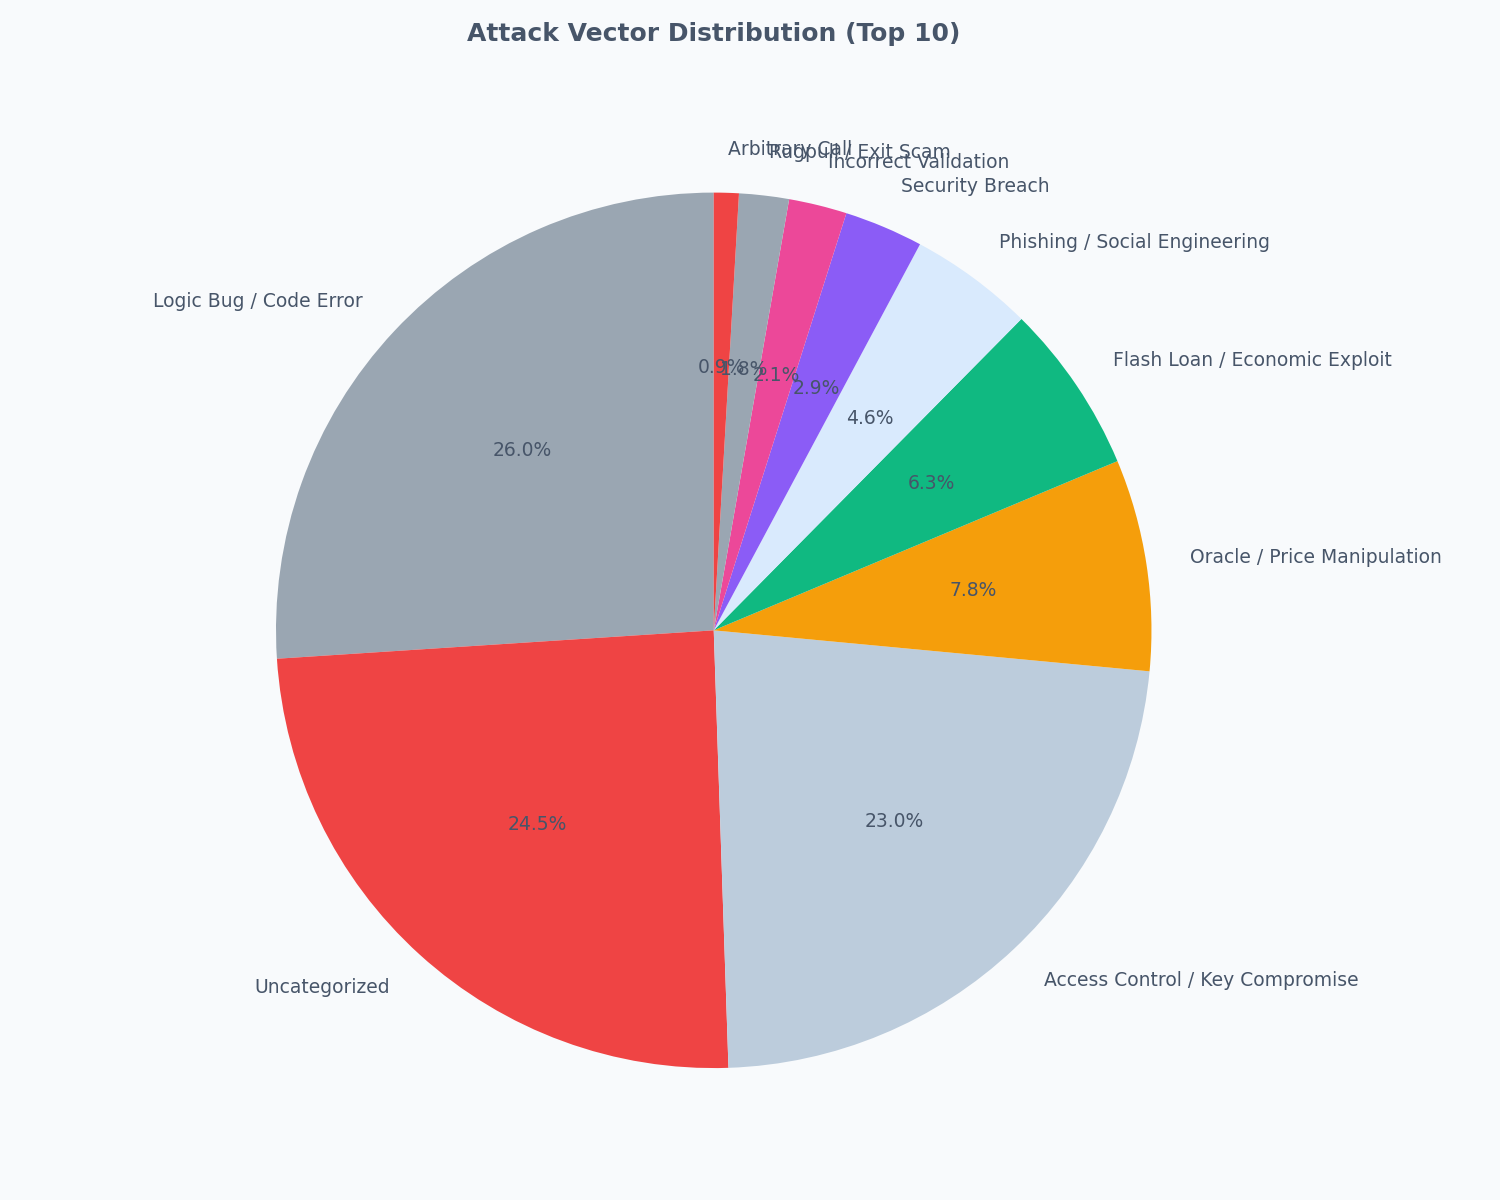
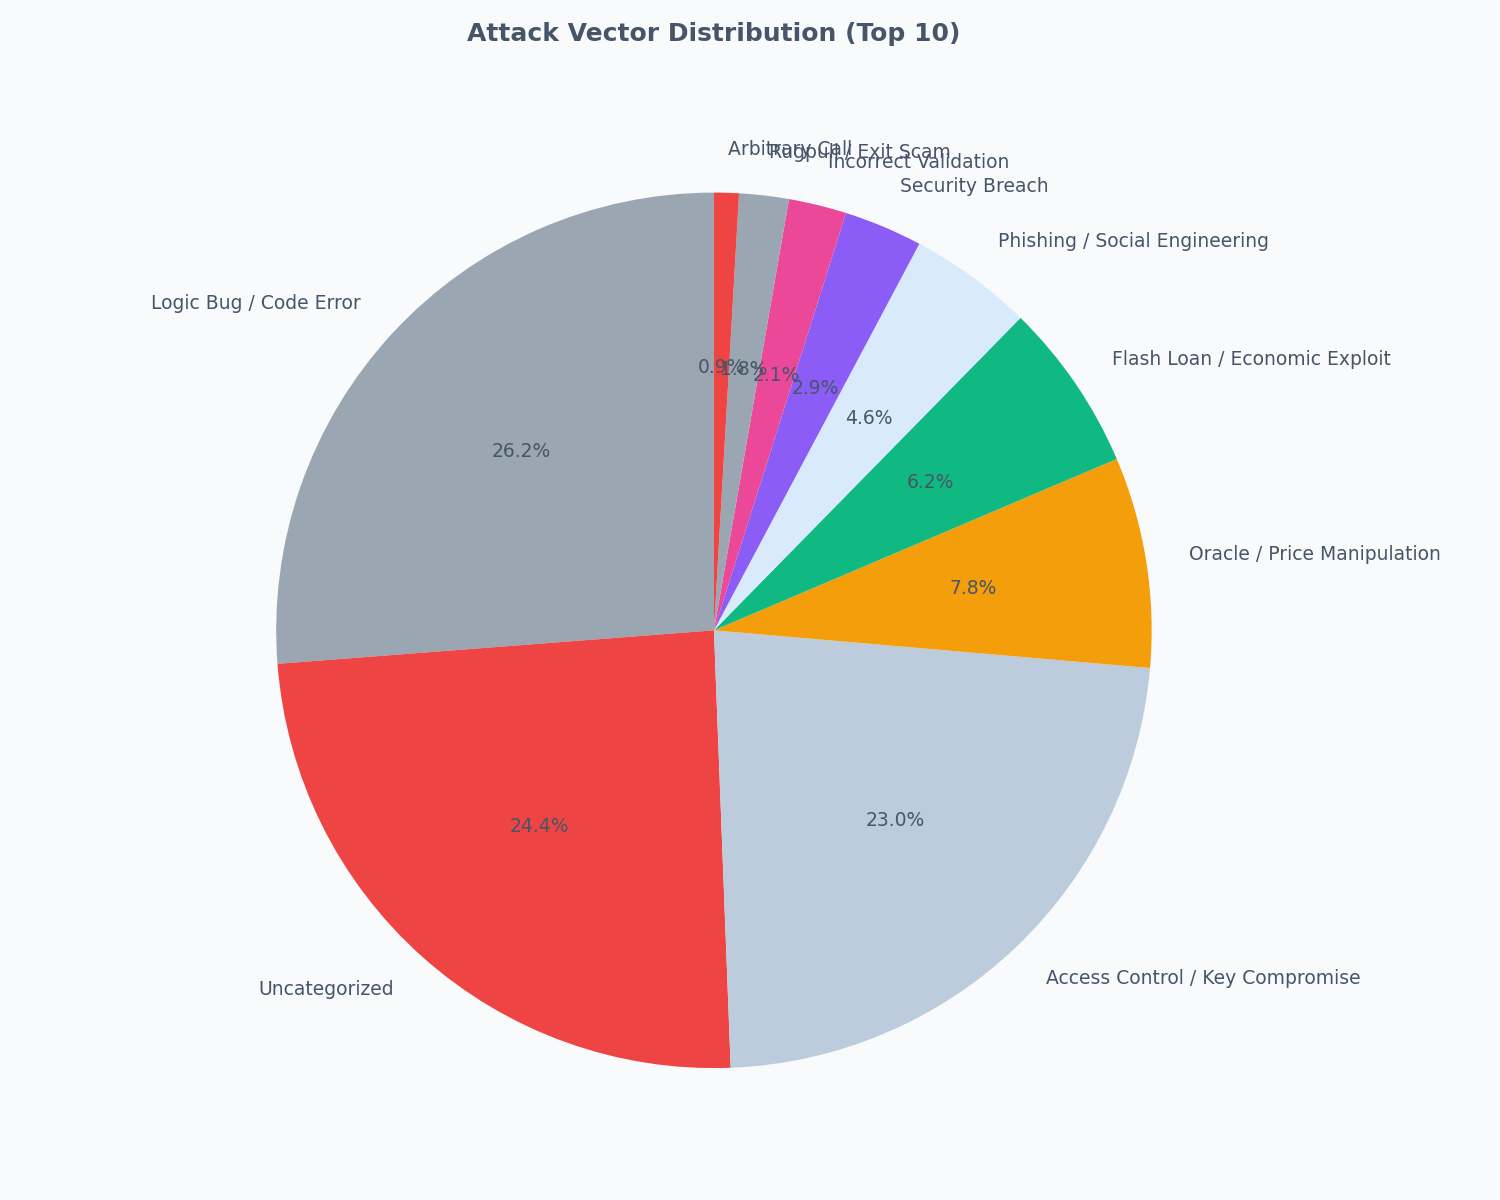
update LIF Q4 2025 incidents, add intervention metrics, and manual update workflow, new charts

diff --git a/methodology/manual_update_procedure.md b/methodology/manual_update_procedure.md
@@ -1,0 +1,61 @@
+# Manual Update Procedure (Q4 2025+ Incidents)
+
+This document defines the **manual addition workflow** for late-breaking incidents not yet captured by upstream aggregators. It keeps the LIF dataset reproducible and citation-ready while supporting fast inclusion of critical events.
+
+## When to Use Manual Additions
+Use this procedure only when:
+- An incident is **verified and widely reported**, but not yet in the source aggregators.
+- The event materially affects LIF conclusions, charts, or calibration (e.g., response speed, governance recovery).
+
+## Required Fields
+Manual incident rows **must** include:
+- `date` (ISO format `YYYY-MM-DD`)
+- `protocol`
+- `chain`
+- `loss_usd`
+- `vector_category`
+- `is_lif_relevant`
+- `source_file` → **canonical URL** (postmortem, forum post, or official statement)
+
+## Workflow
+1. **Collect sources**
+   - Identify the canonical post-mortem or official thread.
+   - Prefer primary sources (foundation blog, forum proposal, incident report).
+
+2. **Append to datasets**
+   - Add the incident row to:
+     - `data/refined/lif_exploits_final.csv`
+     - `data/refined/lif_exploits_cleaned.csv`
+   - Ensure the `source_file` column is a valid URL.
+
+3. **Update intervention metrics (if applicable)**
+   - If the incident includes clear intervention timing, add to:
+     - `data/refined/lif_intervention_metrics.csv`
+
+4. **Recompute summary stats**
+   - Update `data/refined/lif_stats.json` with new totals.
+   - Update `README.md` and `methodology/data_provenance.md` to match.
+
+5. **Verify charts**
+   - If the new event affects charts, re-run:
+     - `scripts/analysis/lif_charts.ipynb`
+
+## Mermaid Overview
+```mermaid
+flowchart TD
+    A[New Incident Verified] --> B[Collect Canonical Source URL]
+    B --> C[Append to lif_exploits_final.csv]
+    B --> D[Append to lif_exploits_cleaned.csv]
+    C --> E[Update lif_intervention_metrics.csv (if timing data)]
+    D --> F[Recompute lif_stats.json]
+    F --> G[Update README + data_provenance]
+    F --> H[Re-run lif_charts.ipynb if charts affected]
+```
+
+## Checklist
+- [ ] Source URL verified
+- [ ] Added to both refined datasets
+- [ ] `is_lif_relevant` reviewed
+- [ ] `lif_stats.json` updated
+- [ ] README + data_provenance updated
+- [ ] Charts re-generated if needed

diff --git a/README.md b/README.md
@@ -6,9 +6,9 @@ An open-source research framework for onchain governance and protocol safety.
 This repository contains the data pipeline, research methodology, and manuscript for the Legitimate Intervention Framework (LIF). The project quantifies and analyzes systemic risk in decentralized finance, proposing automated "Ex Ante" (Circuit Breaker) and "Ex Post" (Governance Freeze) mechanisms.
 
 **Key Stats (Dec 2025):**
-- **759 exploits** analyzed (2014-2025)
-- **$91.3 billion** in total losses
-- **440 LIF-addressable** incidents (~$10.9B)
+- **763 exploits** analyzed (2014-2025)
+- **$91.32 billion** in total losses
+- **439 LIF-addressable** incidents (~$10.77B)
 
 ## Project Structure
 ```
@@ -19,7 +19,7 @@ This repository contains the data pipeline, research methodology, and manuscript
 ├── scripts/
 │   ├── core/         # data pipeline (parse, dedupe, filter)
 │   └── analysis/     # lif_charts.ipynb (single source of truth)
-├── methodology/      # data provenance, dictionary, chart requirements
+├── methodology/      # data provenance, dictionary, chart requirements, manual update procedure
 ├── visualizations/   # PNG charts 
 └── manuscript/       # research paper 
 ```
@@ -30,7 +30,7 @@ This repository contains the data pipeline, research methodology, and manuscript
 ```bash
 python3 -m venv .venv
 source .venv/bin/activate
-pip install pandas matplotlib seaborn nbformat nbconvert ipykernel
+pip install -r requirements.txt
 ```
 
 ### Reproduce Data Pipeline

diff --git a/methodology/data_provenance.md b/methodology/data_provenance.md
@@ -27,6 +27,12 @@ This document details the origins and ingestion methodology for the datasets use
 - **Format:** JSON.
 - **Reference File:** `data/raw/defihacklabs_incidents.json`
 
+### 5. Post Dec 16, 2025 Incident Additions (Manual Additions)
+- **Source:** Verified incidents from the *Legitimate Overrides* paper research (Flow, Sonic, Berachain, Gnosis recovery).
+- **Format:** Manually appended CSV entries with canonical URLs in the `source_file` field.
+- **Reference:** `methodology/manual_update_procedure.md`
+- **Scope:** 5 recent critical incidents from Q4 2025 not yet in aggregators.
+
 ---
 
 ## Ingestion & Analysis Pipeline
@@ -55,10 +61,10 @@ jupyter nbconvert --execute --to notebook scripts/analysis/lif_charts.ipynb
 
 | Metric | Value |
 |:-------|:------|
-| Total Exploits | 759 |
-| Total Loss | $91.3 Billion |
-| LIF-Relevant | 440 ($10.9B) |
-| Date Range | 2014-03-01 to 2025-12-16 |
+| Total Exploits | 763 |
+| Total Loss | $91.32 Billion |
+| LIF-Relevant | 439 ($10.77B) |
+| Date Range | 2014-03-01 to 2025-12-27 |
 
 ---
 

diff --git a/manuscript/gnosis_framework_response.md b/manuscript/gnosis_framework_response.md
@@ -15,7 +15,7 @@ numbersections: true
 
 > **Response to Sebastian Bürgel (@SCBuergel)'s "A Framework for the Future" consultation**
 >
-> This document synthesises findings from the Legitimate Intervention Framework (LIF) *(formerly Native Compliance Framework (NCF))* initiative to inform GnosisDAO's development of intervention criteria for its emergency framework. It offers a structured approach to the "credible neutrality vs. user safety" tension identified in the consultation.
+> This document synthesises findings from the Legitimate Intervention Framework (LIF) initiative to inform GnosisDAO's development of intervention criteria for its emergency framework. It offers a structured approach to the "credible neutrality vs. user safety" tension identified in the consultation.
 
 ---
 
